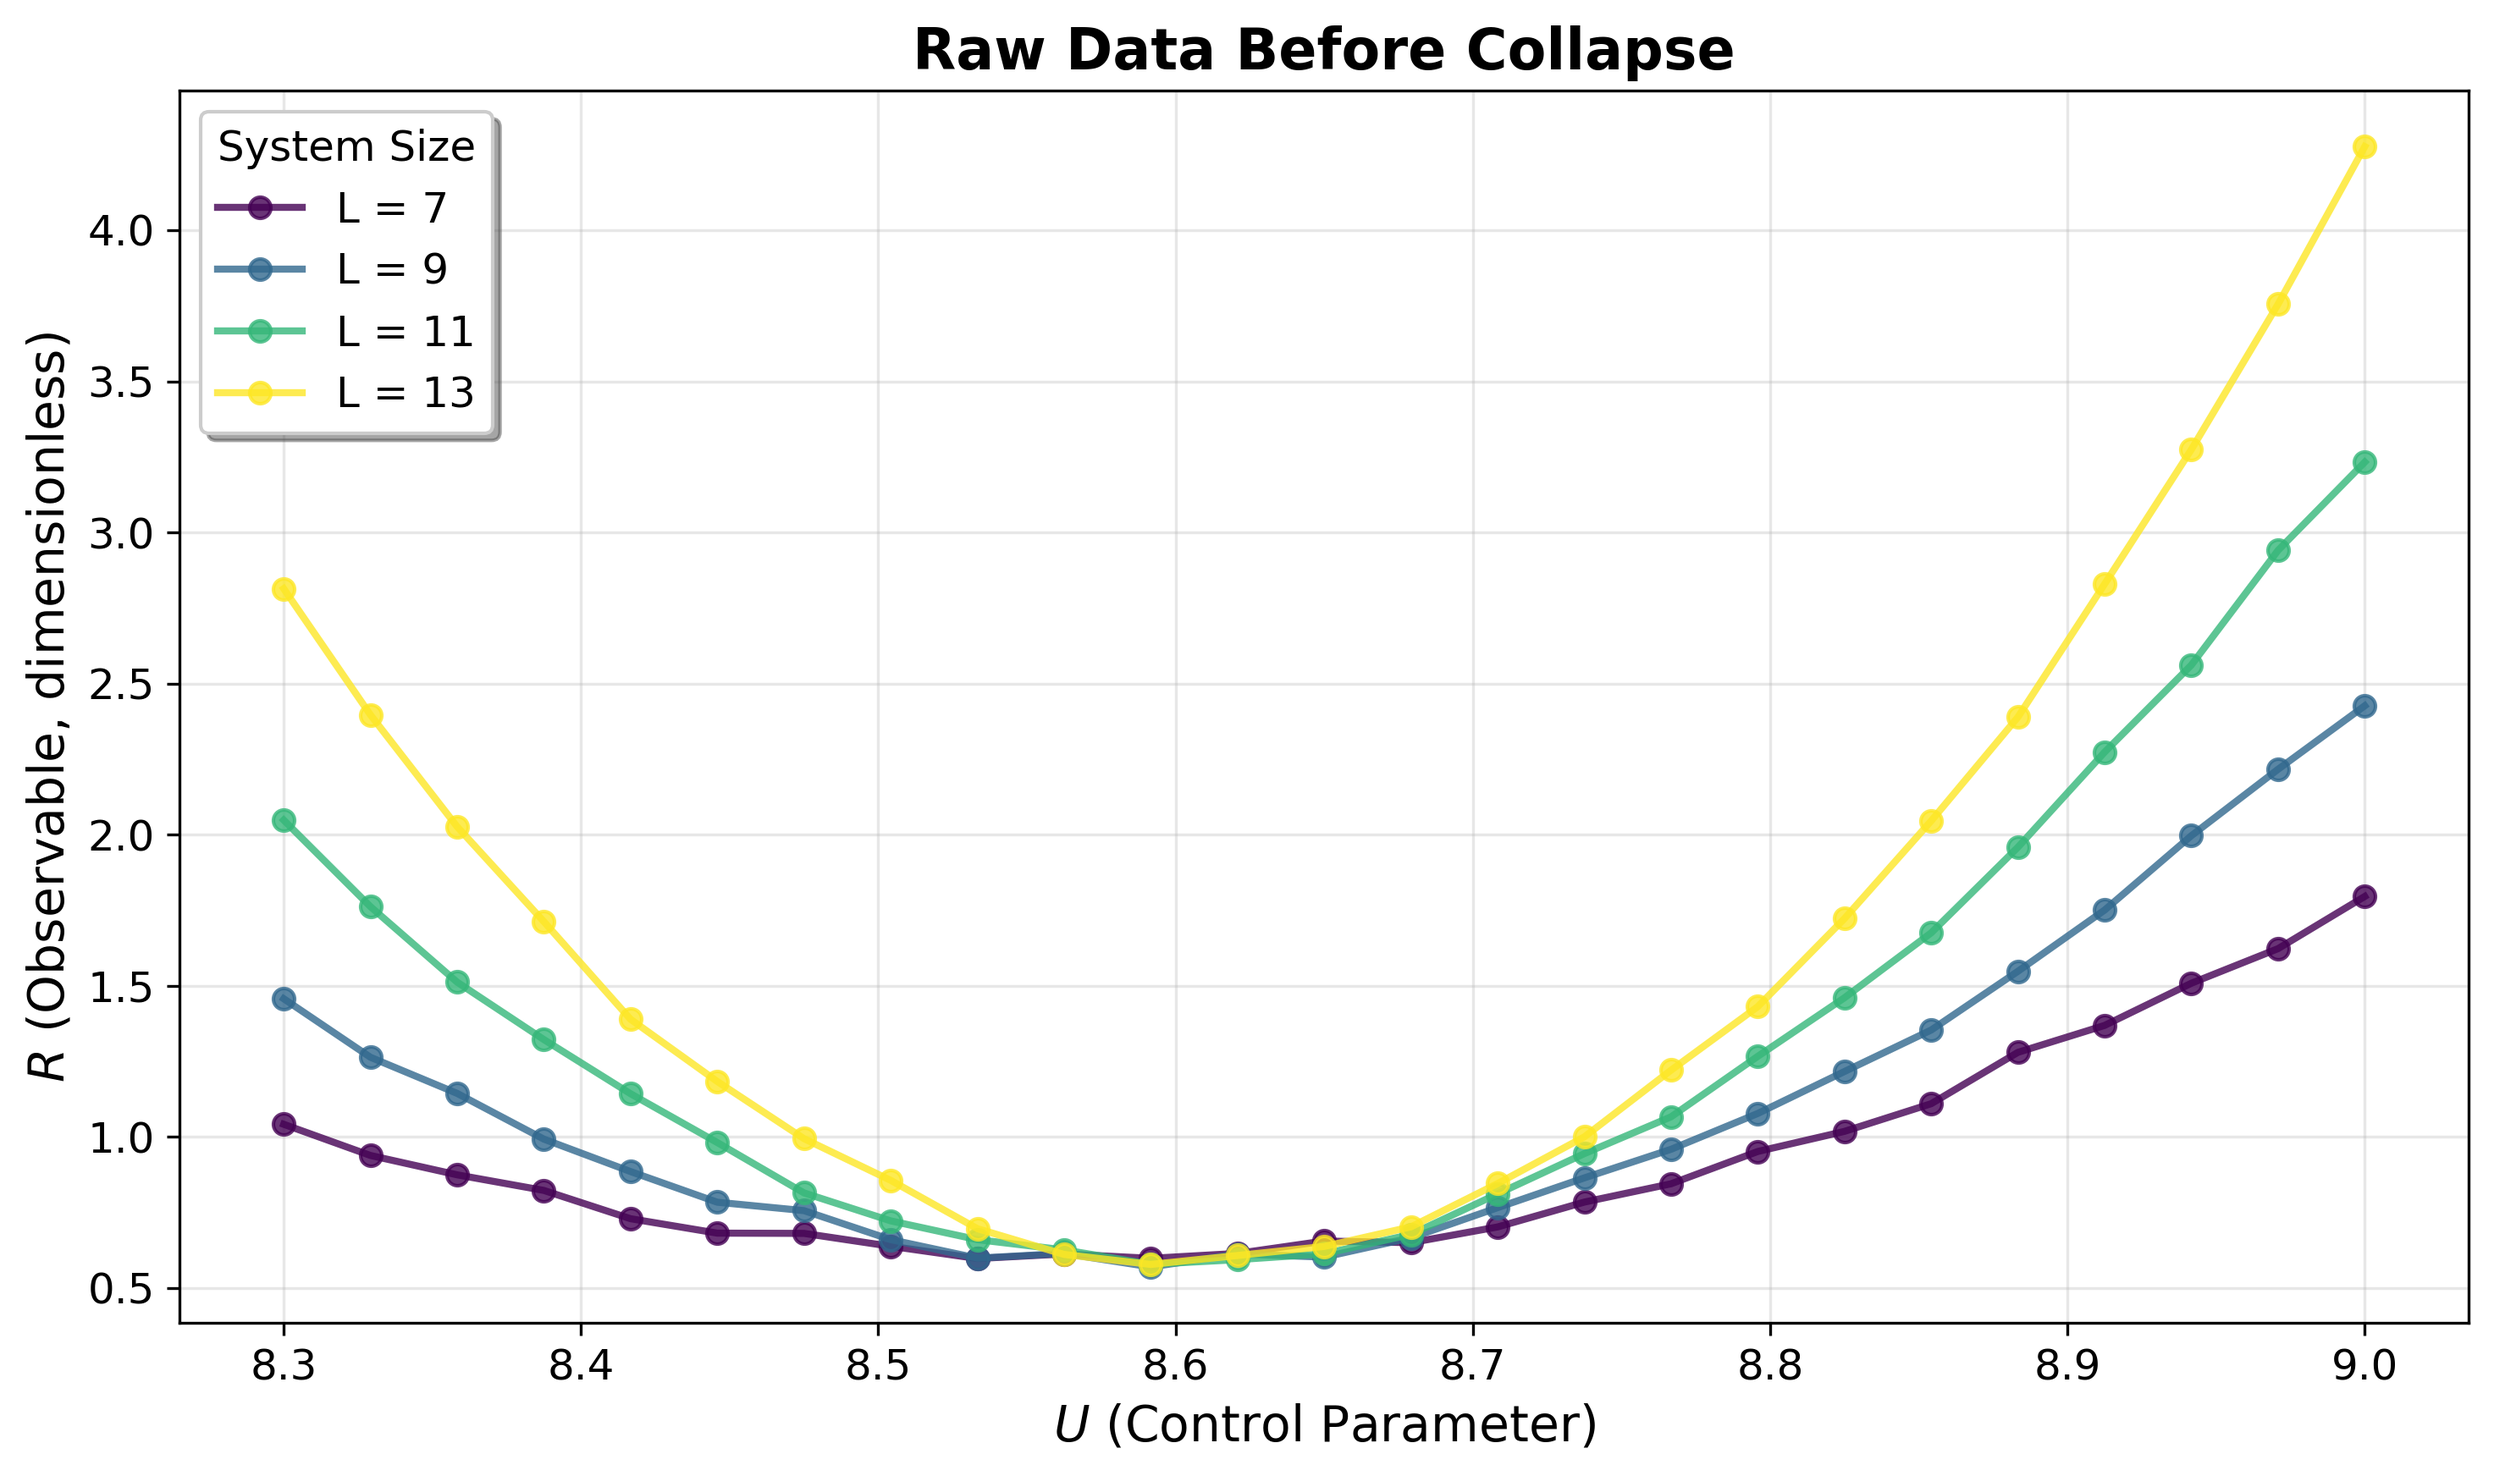
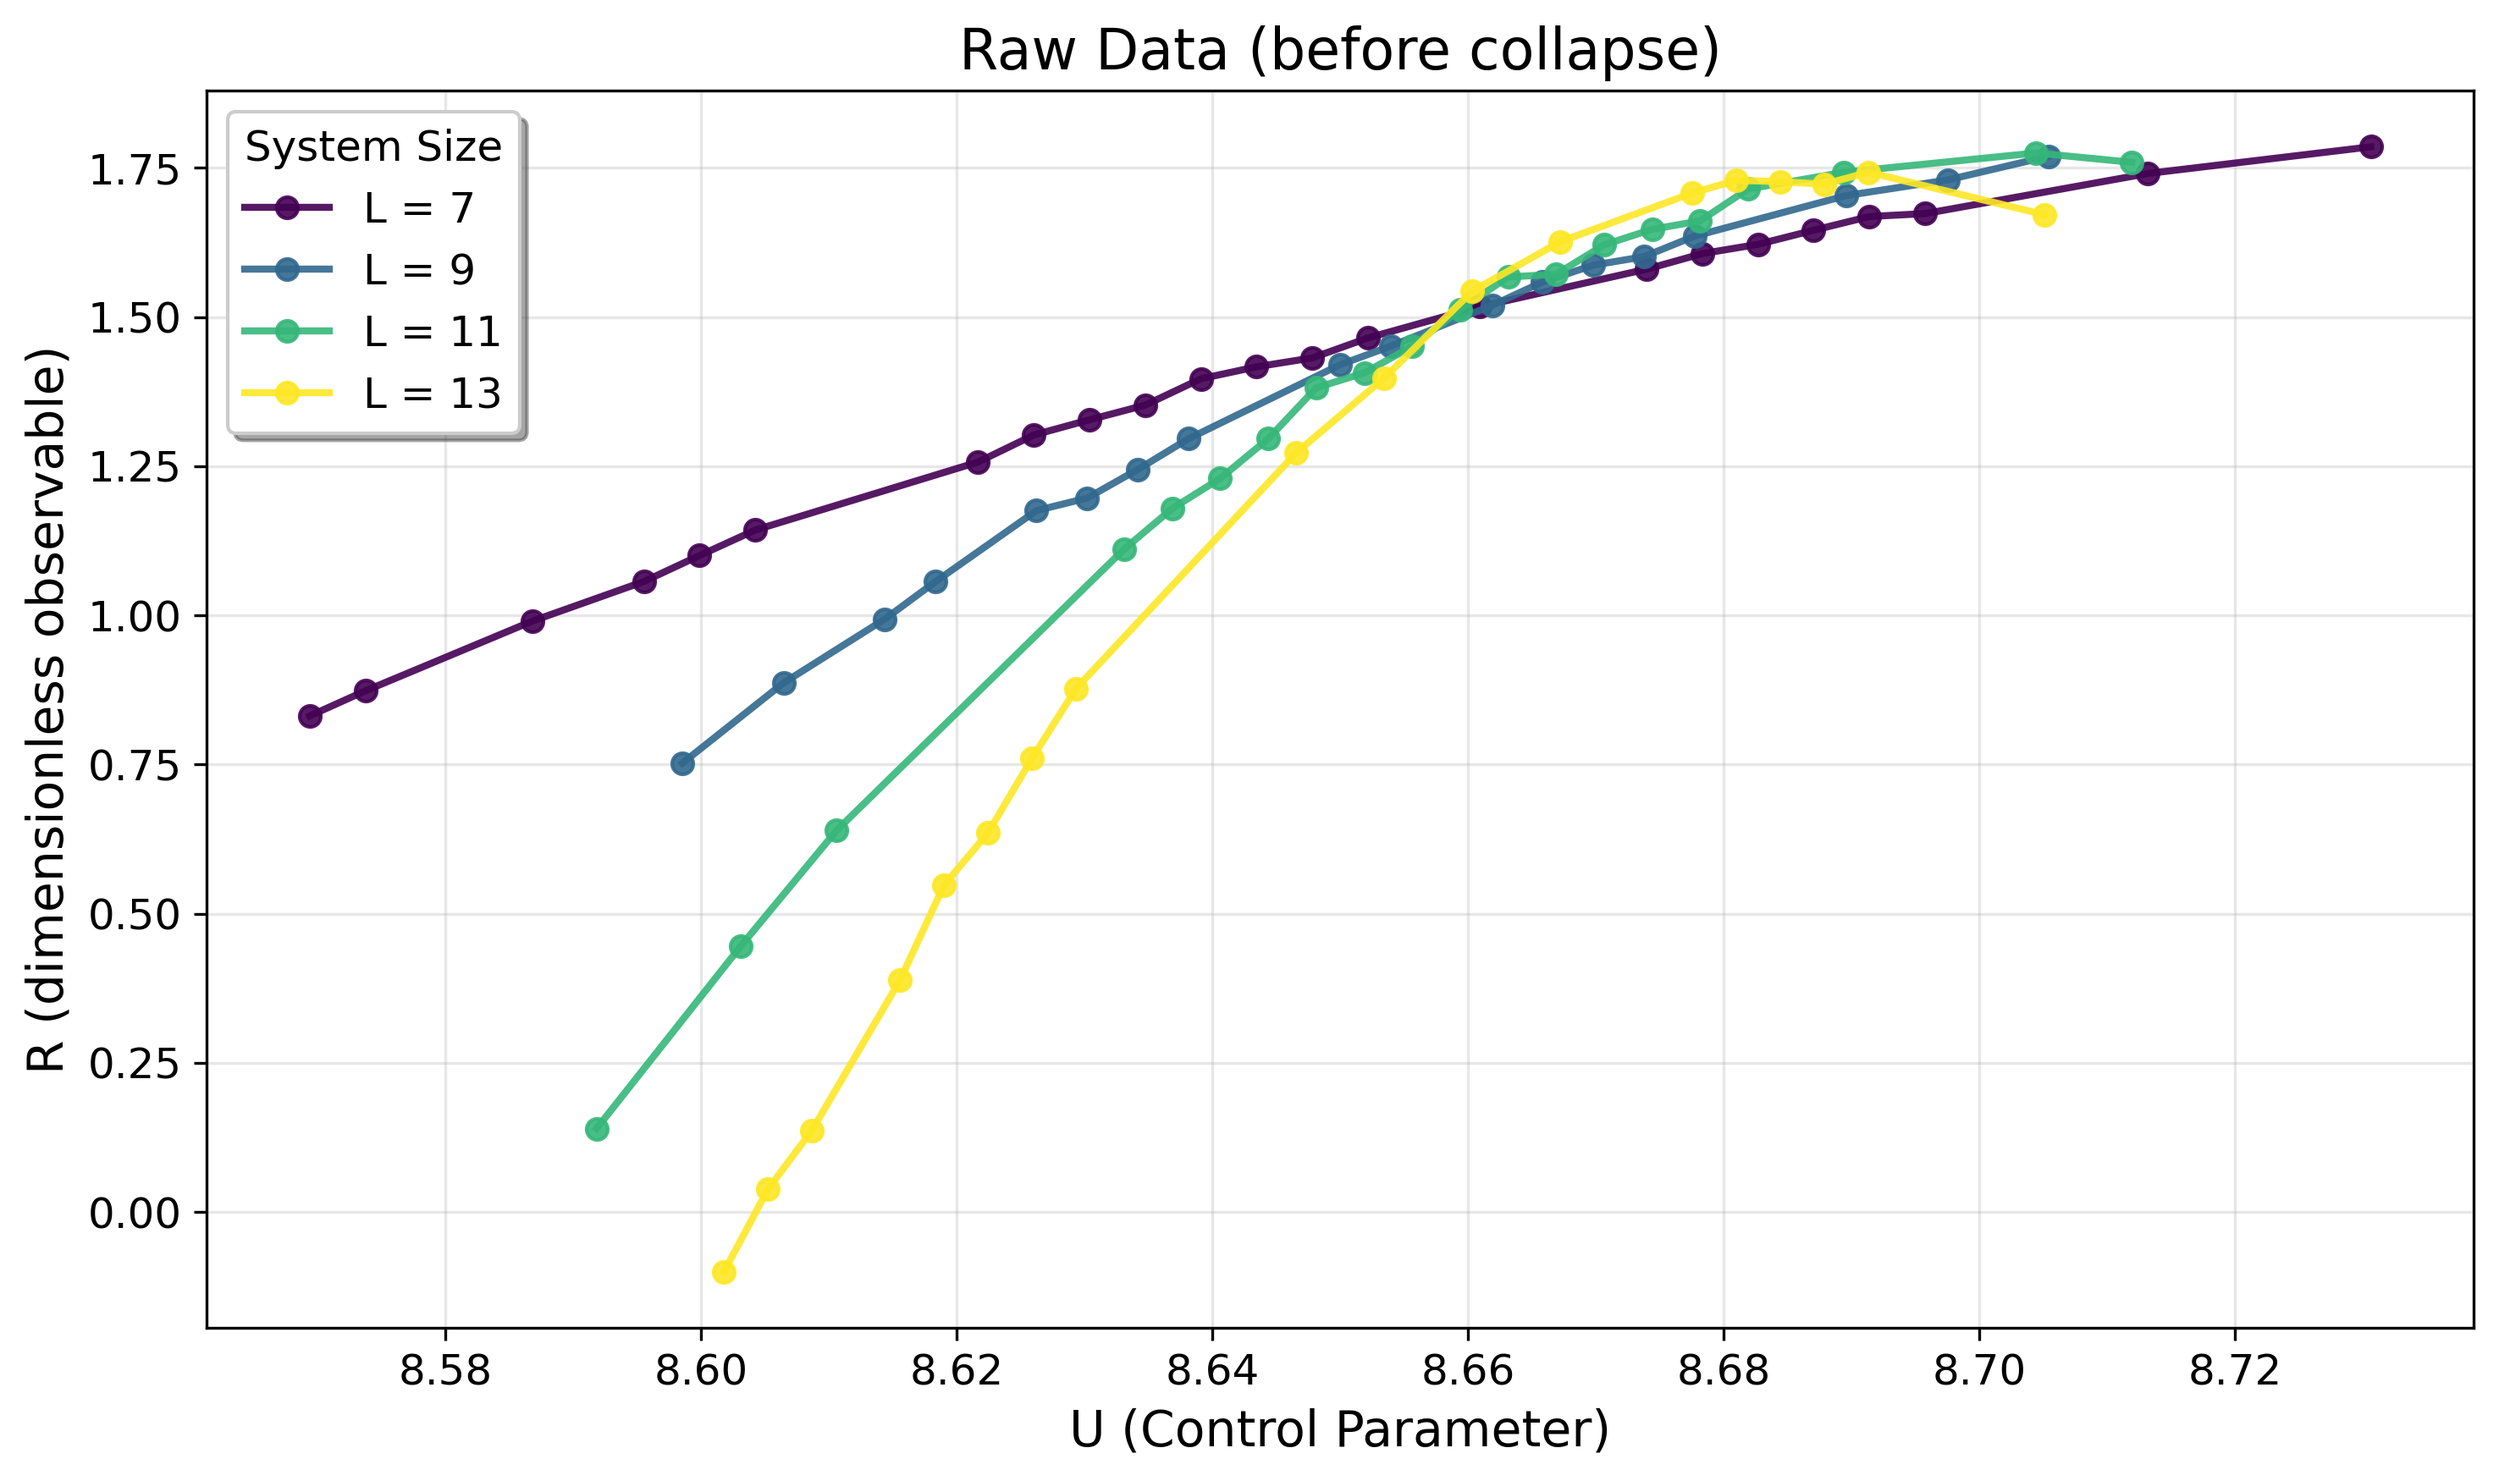
docs: update README visuals from sample_data.csv

diff --git a/examples/build_readme_images.py b/examples/build_readme_images.py
@@ -1,0 +1,128 @@
+#!/usr/bin/env python3
+import os
+import numpy as np
+import pandas as pd
+import matplotlib
+matplotlib.use('Agg')
+import matplotlib.pyplot as plt
+from matplotlib import rcParams
+
+from datacollapse import (
+    fit_data_collapse,
+    fit_data_collapse_fse_robust,
+    collapse_transform,
+)
+
+rcParams['font.size'] = 12
+rcParams['axes.labelsize'] = 14
+rcParams['axes.titlesize'] = 16
+rcParams['xtick.labelsize'] = 12
+rcParams['ytick.labelsize'] = 12
+rcParams['legend.fontsize'] = 12
+rcParams['figure.figsize'] = (10, 6)
+
+HERE = os.path.dirname(os.path.abspath(__file__))
+ROOT = os.path.dirname(HERE)
+IMAGES_DIR = os.path.join(ROOT, 'docs', 'images')
+CSV_PATH = os.path.join(HERE, 'sample_data.csv')
+
+
+def load_sample_csv(csv_path: str):
+    df = pd.read_csv(csv_path)
+    # expected columns: L, U, Y, sigma
+    if not set(['L','U','Y']).issubset(df.columns):
+        raise ValueError('CSV must contain columns L,U,Y[,sigma]')
+    L = df['L'].to_numpy(float)
+    U = df['U'].to_numpy(float)
+    Y = df['Y'].to_numpy(float)
+    data = np.column_stack([L,U,Y])
+    if 'sigma' in df.columns:
+        err = df['sigma'].to_numpy(float)
+    else:
+        err = None
+    return data, err, df
+
+
+def plot_raw(df: pd.DataFrame, save_path: str):
+    plt.figure()
+    L_vals = sorted(df['L'].unique())
+    cmap = plt.cm.viridis(np.linspace(0, 1, len(L_vals)))
+    for i, Lv in enumerate(L_vals):
+        sub = df[df['L'] == Lv]
+        plt.plot(sub['U'].to_numpy(), sub['Y'].to_numpy(), 'o-',
+                 color=cmap[i], label=f'L = {int(Lv)}', linewidth=2, markersize=6, alpha=0.9)
+    plt.xlabel('U (Control Parameter)')
+    plt.ylabel('R (dimensionless observable)')
+    plt.title('Raw Data (before collapse)')
+    plt.grid(True, alpha=0.3)
+    plt.legend(title='System Size', frameon=True, fancybox=True, shadow=True)
+    os.makedirs(os.path.dirname(save_path), exist_ok=True)
+    plt.tight_layout()
+    plt.savefig(save_path, dpi=300, bbox_inches='tight')
+    plt.close()
+
+
+def plot_collapse(data: np.ndarray, params, save_path: str, *, normalize=False, L_ref='geom'):
+    plt.figure()
+    x, Yc = collapse_transform(data, params, normalize=normalize, L_ref=L_ref)
+    L = data[:,0]
+    # sort by L for consistent color mapping
+    L_vals = sorted(np.unique(L))
+    cmap = plt.cm.viridis(np.linspace(0, 1, len(L_vals)))
+    for i, Lv in enumerate(L_vals):
+        mask = (L == Lv)
+        plt.plot(x[mask], Yc[mask], 'o', color=cmap[i], label=f'L = {int(Lv)}', alpha=0.9)
+    plt.xlabel(r'$(U - U_c)\, L^{1/\nu}$')
+    ylabel = 'R' if not normalize else r'$R/(1+bL^c)$'
+    plt.ylabel(ylabel)
+    title = 'Collapse (without finite-size correction)' if not normalize else 'Collapse (with finite-size correction)'
+    plt.title(title)
+    plt.grid(True, alpha=0.3)
+    plt.legend(title='System Size', frameon=True, fancybox=True, shadow=True)
+    os.makedirs(os.path.dirname(save_path), exist_ok=True)
+    plt.tight_layout()
+    plt.savefig(save_path, dpi=300, bbox_inches='tight')
+    plt.close()
+
+
+def main():
+    print('Loading sample data:', CSV_PATH)
+    data, err, df = load_sample_csv(CSV_PATH)
+
+    # Plot raw
+    raw_png = os.path.join(IMAGES_DIR, 'raw_data.png')
+    plot_raw(df, raw_png)
+    print('Saved:', raw_png)
+
+    # Fit without finite-size correction
+    print('Fitting without finite-size correction...')
+    (params_nofse, errs_nofse) = fit_data_collapse(
+        data, err, U_c_0=8.6, a_0=1.0,
+        n_knots=12, lam=1e-3, n_boot=0, random_state=0,
+        bounds=((np.min(data[:,1])-0.2, np.max(data[:,1])+0.2), (0.3, 2.5)),
+        optimizer='NM_then_Powell', random_restarts=8, maxiter=4000,
+    )
+    nofse_png = os.path.join(IMAGES_DIR, 'nofse_collapse.png')
+    plot_collapse(data, params_nofse, nofse_png, normalize=False)
+    print('Saved:', nofse_png, 'params=', params_nofse)
+
+    # Fit with finite-size correction (robust variant)
+    print('Fitting with finite-size correction (robust)...')
+    b_grid = np.linspace(0.2, 1.2, 6)
+    c_grid = np.linspace(-1.5, -0.3, 7)
+    u_min, u_max = float(np.min(data[:,1])), float(np.max(data[:,1]))
+    bounds_Ua = ((u_min - 0.2, u_max + 0.2), (0.3, 2.5))
+    (params_fse, errs_fse) = fit_data_collapse_fse_robust(
+        data, err, U_c_0=8.6, a_0=1.0,
+        b_grid=b_grid, c_grid=c_grid,
+        n_knots=12, lam=1e-3, n_boot=0, random_state=0,
+        bounds_Ua=bounds_Ua,
+        normalize=True, L_ref='geom',
+        optimizer='NM_then_Powell', random_restarts=3, maxiter=4000,
+    )
+    fse_png = os.path.join(IMAGES_DIR, 'fse_collapse.png')
+    plot_collapse(data, params_fse, fse_png, normalize=True, L_ref='geom')
+    print('Saved:', fse_png, 'params=', params_fse)
+
+if __name__ == '__main__':
+    main() 
